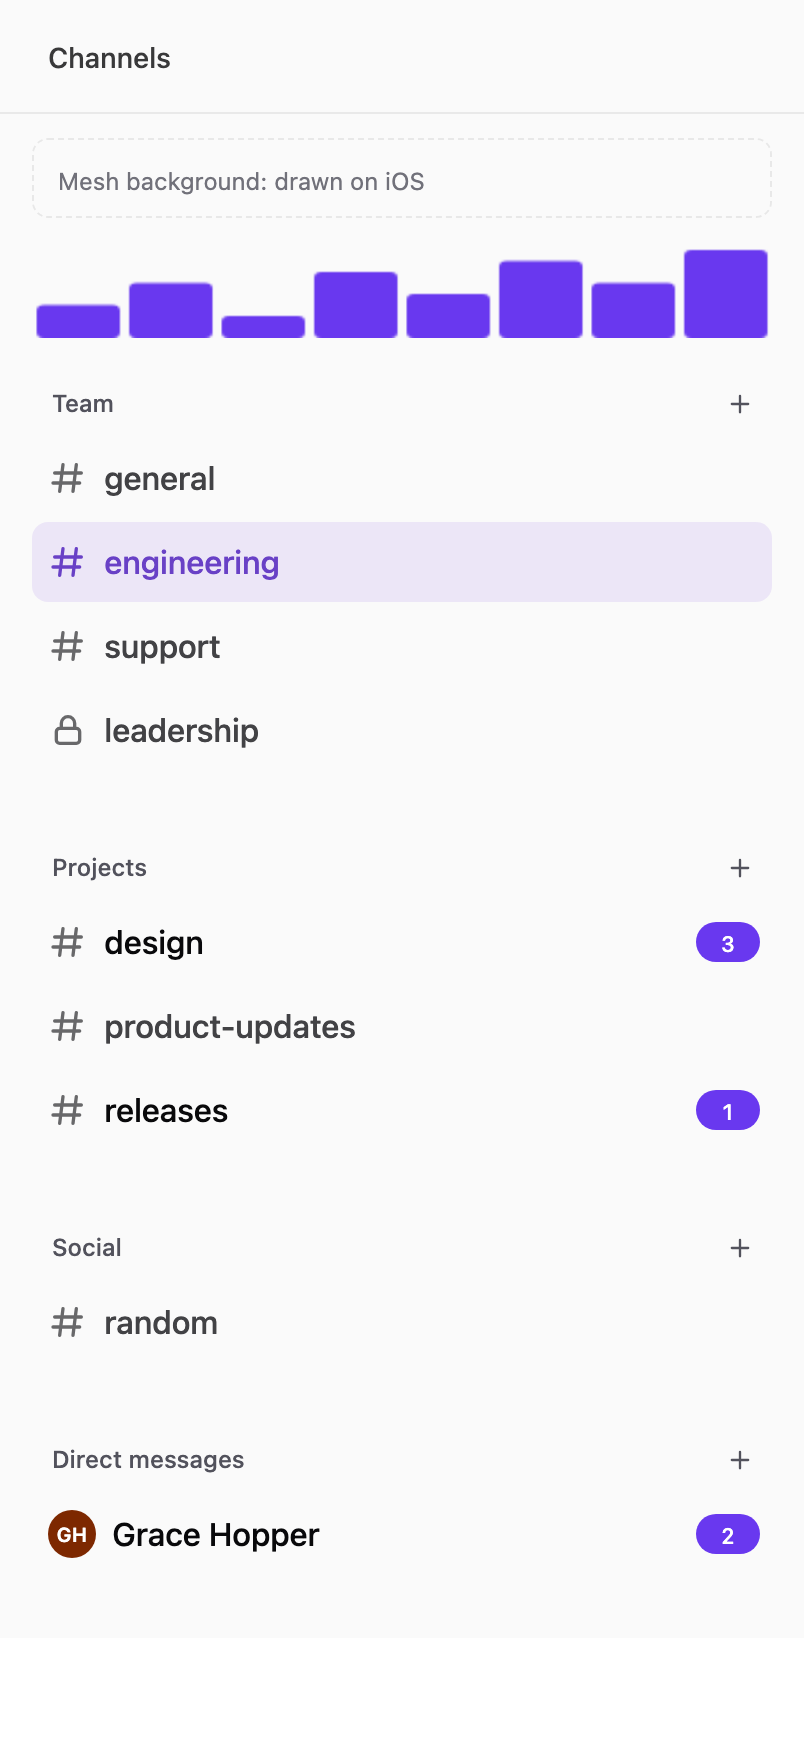
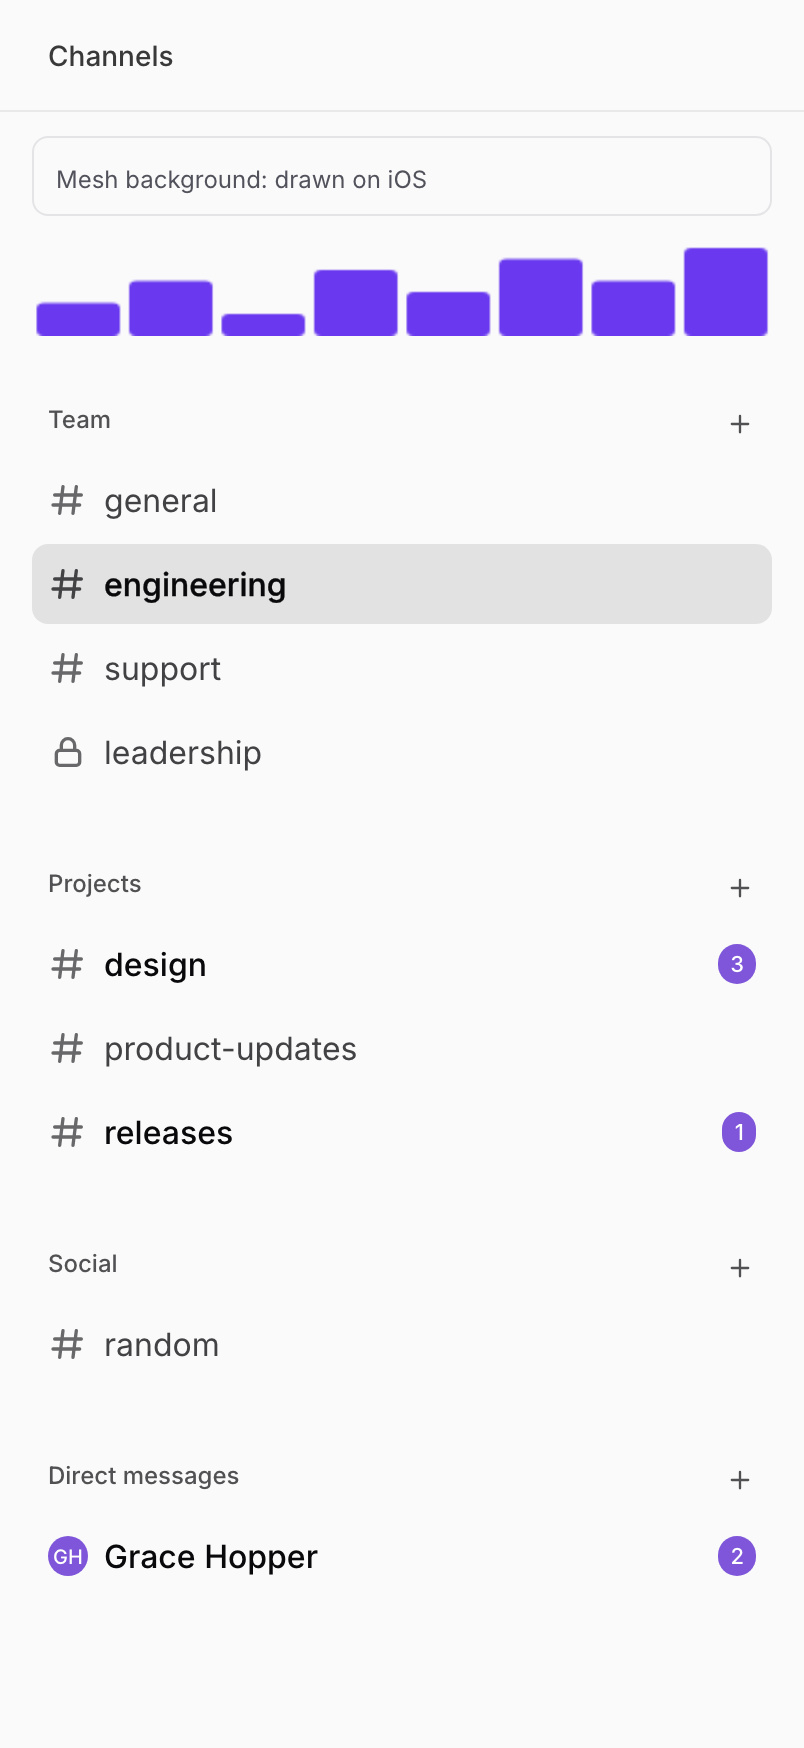
feat(hazel-ui): web host draws hz tags with the generated tokens.css
- delete G1's hand-written web/styles.ts; the demo imports generated/tokens.css
- slots carry data-hz-slot; an extension hides its unused surface or fallback with hidden
- the browser demo loads Inter and the generated CSS

diff --git a/packages/ui/src/demo/shoot.ts b/packages/ui/src/demo/shoot.ts
@@ -2,6 +2,7 @@
  * Builds the browser demo and screenshots it in Playwright's Chromium (G1 evidence):
  * `bun src/demo/shoot.ts` writes `src/demo/__shots__/channel-list-web.png` and prints what it checked.
  */
+import { readFileSync } from "node:fs"
 import { chromium } from "playwright"
 
 // Run with Bun; the package has no `@types/bun`, so the one call is declared here.
@@ -9,21 +10,35 @@ declare const Bun: {
 	build: (options: { entrypoints: Array<string>; target: "browser"; format: "iife" }) => Promise<{
 		success: boolean
 		logs: Array<unknown>
-		outputs: Array<{ text: () => Promise<string> }>
+		outputs: Array<{ path: string; text: () => Promise<string> }>
 	}>
 }
+declare const require: { resolve: (id: string, options: { paths: Array<string> }) => string }
 
 const here = new URL(".", import.meta.url).pathname
 const built = await Bun.build({ entrypoints: [`${here}web-entry.ts`], target: "browser", format: "iife" })
 if (!built.success) throw new AggregateError(built.logs, "demo build failed")
-const script = await built.outputs[0]!.text()
+const script = await built.outputs.find((output) => output.path.endsWith(".js"))!.text()
+// The generated tokens.css (imported by the entry), and Inter from the web app's files: a host asset.
+const css = await built.outputs.find((output) => output.path.endsWith(".css"))!.text()
+const fontDir = require.resolve("@fontsource/inter/package.json", {
+	paths: [`${here}../../../../apps/web-foldkit`],
+}).replace(/package\.json$/, "files/")
+const fonts = [400, 500, 600]
+	.map((weight) => {
+		const data = readFileSync(`${fontDir}inter-latin-${weight}-normal.woff2`).toString("base64")
+		return `@font-face { font-family: "Inter"; font-weight: ${weight}; src: url(data:font/woff2;base64,${data}) format("woff2"); }`
+	})
+	.join("\n")
 
 const browser = await chromium.launch()
 const page = await browser.newPage({ viewport: { width: 402, height: 874 }, deviceScaleFactor: 2 })
 const errors: Array<string> = []
 page.on("pageerror", (error) => errors.push(String(error)))
-await page.setContent('<!doctype html><html><body style="margin:0"><div id="app"></div></body></html>')
+await page.setContent('<!doctype html><html><body style="margin:0; background: var(--hz-color-sidebar)"><div id="app"></div></body></html>')
+await page.addStyleTag({ content: `${fonts}\n${css}` })
 await page.addScriptTag({ content: script })
+await page.evaluate(() => document.fonts.ready.then(() => undefined))
 await page.waitForSelector("[data-hz=ext][data-ext=ActivityChart][data-drawn] canvas")
 
 // Press a row: it becomes the selected button, the others stay links.

diff --git a/packages/ui/src/web/primitives.ts b/packages/ui/src/web/primitives.ts
@@ -166,7 +166,10 @@ export const create = (document: Document, tag: string): Primitive | undefined =
 		case "hz:slot": {
 			const node = outer("span")
 			return self(node, (name, value) => {
-				if (name === "name") option(node, "name", value)
+				if (name !== "name") return
+				option(node, "name", value)
+				// What the owner's recipe targets (`[data-hz-slot=leading]`).
+				option(node, "hz-slot", value)
 			})
 		}
 		case "hz:action": {
@@ -183,6 +186,8 @@ export const create = (document: Document, tag: string): Primitive | undefined =
 			const node = outer("div")
 			const surface = part(document, "div", "surface")
 			const content = part(document, "div", "content")
+			// One of the two shows: the platform's drawing once drawn, else the fallback.
+			surface.hidden = true
 			node.append(surface, content)
 			let ext: string | undefined
 			let args: unknown
@@ -202,7 +207,11 @@ export const create = (document: Document, tag: string): Primitive | undefined =
 						return handler !== undefined && primitive.events!.dispatch(event, handler, payload)
 					}
 					// Drawn here if this platform registered it; else the fallback slot shows.
-					if (mountExtension(surface, ext, args, send)) node.dataset.drawn = ""
+					if (mountExtension(surface, ext, args, send)) {
+						node.dataset.drawn = ""
+						surface.hidden = false
+						content.hidden = true
+					}
 				},
 				events: undefined,
 			}

diff --git a/packages/ui/src/demo/web-entry.ts b/packages/ui/src/demo/web-entry.ts
@@ -1,15 +1,14 @@
 // Effect UI is a public preview: every API is experimental by design here.
 // @effect-diagnostics experimentalApiUsage:off
 /** The browser demo (G1): the same ChannelList the iOS app runs, on the web host, with the spike's fixture. */
+import "../style/generated/tokens.css"
 import { Effect, Layer } from "effect"
 import { sections } from "../../../../apps/ios-hybrid/effect-ui/sections.ts"
 import { Renderer } from "@effect/ui"
 import { withWebHost } from "../web/mount.ts"
-import { installStyles } from "../web/styles.ts"
 import { ChannelList } from "./ChannelList.ts"
 import { registerDemoWebExtensions } from "./web-extensions.ts"
 
-installStyles(document)
 registerDemoWebExtensions()
 const app = Renderer.mount(ChannelList, { sections: sections(), tickMs: 0 }, document.getElementById("app")!)
 Effect.runFork(Layer.launch(withWebHost(app)))

diff --git a/packages/ui/src/style/recipes/screen.ts b/packages/ui/src/style/recipes/screen.ts
@@ -9,7 +9,8 @@ export const screen = defineRecipe<{}, never, "header" | "title" | "content">({
 		parts: {
 			header: { layout: "row", align: "center", minHeight: "14", paddingX: "6", divider: "separator" },
 			title: { text: "label", strong: true, color: "fg", opacity: 0.8 },
-			content: { layout: "column", rowGap: "3", paddingY: "3" },
+			// Sections pad themselves, as in the sidebar; extensions add their own space below.
+			content: { layout: "column", paddingY: "3" },
 		},
 	},
 	options: {},

diff --git a/packages/ui/scripts/css.ts b/packages/ui/scripts/css.ts
@@ -87,6 +87,8 @@ const tokenBlock = (tokens: Tokens): string => {
 			"text-decoration: none;",
 			"appearance: none;",
 		]),
+		// `hidden` wins over a recipe's `display`: hosts hide parts with it (a badge at 0, a fallback).
+		block(":where([data-hz], [data-hz-part], [data-hz-slot])[hidden]", ["display: none !important;"]),
 		block(":where([data-hz]:not([data-hz] *))", [
 			"font-family: var(--hz-font-sans);",
 			"font-feature-settings: var(--hz-font-sans-features);",

diff --git a/packages/ui/src/demo/web-extensions.ts b/packages/ui/src/demo/web-extensions.ts
@@ -15,6 +15,7 @@ export const registerDemoWebExtensions = () =>
 		const canvas = container.ownerDocument.createElement("canvas")
 		canvas.width = 320
 		canvas.height = 48
+		canvas.style.cssText = "display: block; width: 100%; height: 48px;"
 		canvas.setAttribute("role", "img")
 		canvas.setAttribute("aria-label", "Recent activity")
 		container.append(canvas)

diff --git a/packages/ui/src/style/recipes/ext.ts b/packages/ui/src/style/recipes/ext.ts
@@ -8,7 +8,7 @@ export const ext = defineRecipe<{}, never, "surface" | "content">({
 	primitive: "ext",
 	parts: { surface: "part", content: "part" },
 	base: {
-		root: { marginX: "4" },
+		root: { marginX: "4", marginBottom: "3" },
 		parts: { content: { paddingX: "3", paddingY: "2.5", radius: "lg", ring: "border" } },
 	},
 	options: {},

diff --git a/packages/ui/src/web/css.d.ts b/packages/ui/src/web/css.d.ts
@@ -1,0 +1,2 @@
+/** Stylesheets imported for their side effect (the generated `tokens.css`): the bundler emits them. */
+declare module "*.css" {}
